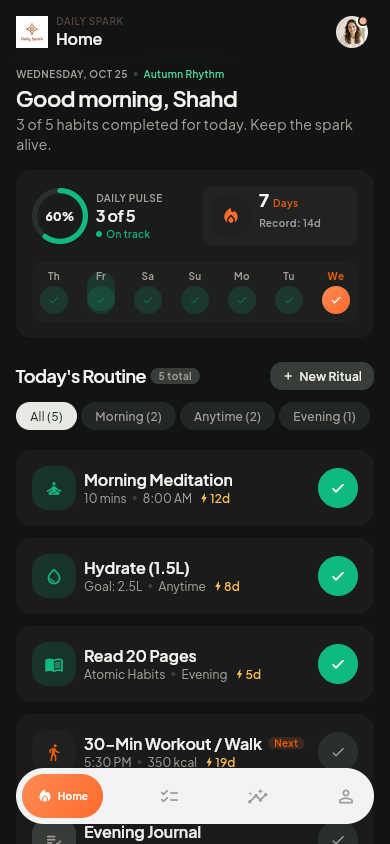
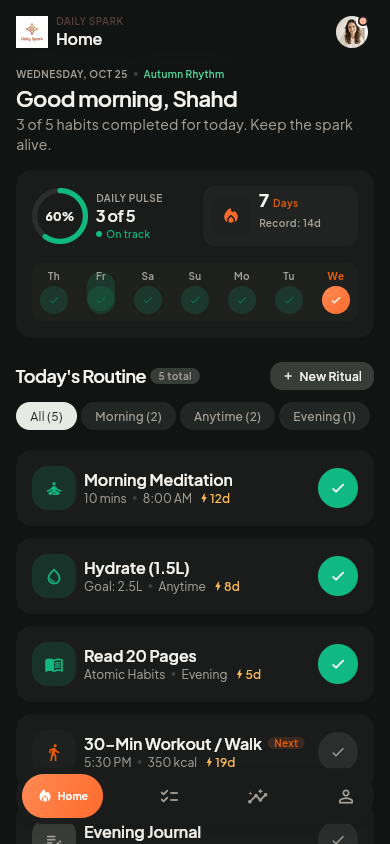
Dark mode: fix frosted bottom nav + glass chip surfaces

Changed region(s): [[0.0308, 0.8934, 0.9846, 0.9858]]

diff --git a/lib/design_system/widgets/app_bottom_nav.dart b/lib/design_system/widgets/app_bottom_nav.dart
@@ -52,10 +52,10 @@ class AppBottomNav extends StatelessWidget {
     final card = Container(
       height: height * s,
       decoration: BoxDecoration(
-        color: Colors.white.withValues(alpha: frosted ? 0.90 : 0.95),
+        color: p.surface.withValues(alpha: frosted ? 0.90 : 0.95),
         border: frosted
             ? Border.all(
-                color: p.warmBorder.withValues(alpha: 0.10),
+                color: (p.dark ? p.bone : p.warmBorder).withValues(alpha: 0.10),
                 width: 1 * s,
               )
             : null,

diff --git a/lib/screens/habit_details/widgets/editorial_card.dart b/lib/screens/habit_details/widgets/editorial_card.dart
@@ -143,7 +143,7 @@ class _GlassChip extends StatelessWidget {
       height: 20 * s,
       padding: EdgeInsets.symmetric(horizontal: 10 * s),
       decoration: BoxDecoration(
-        color: Colors.white.withValues(alpha: 0.9),
+        color: p.surface.withValues(alpha: 0.9),
         borderRadius: BorderRadius.circular(999),
       ),
       child: Center(
